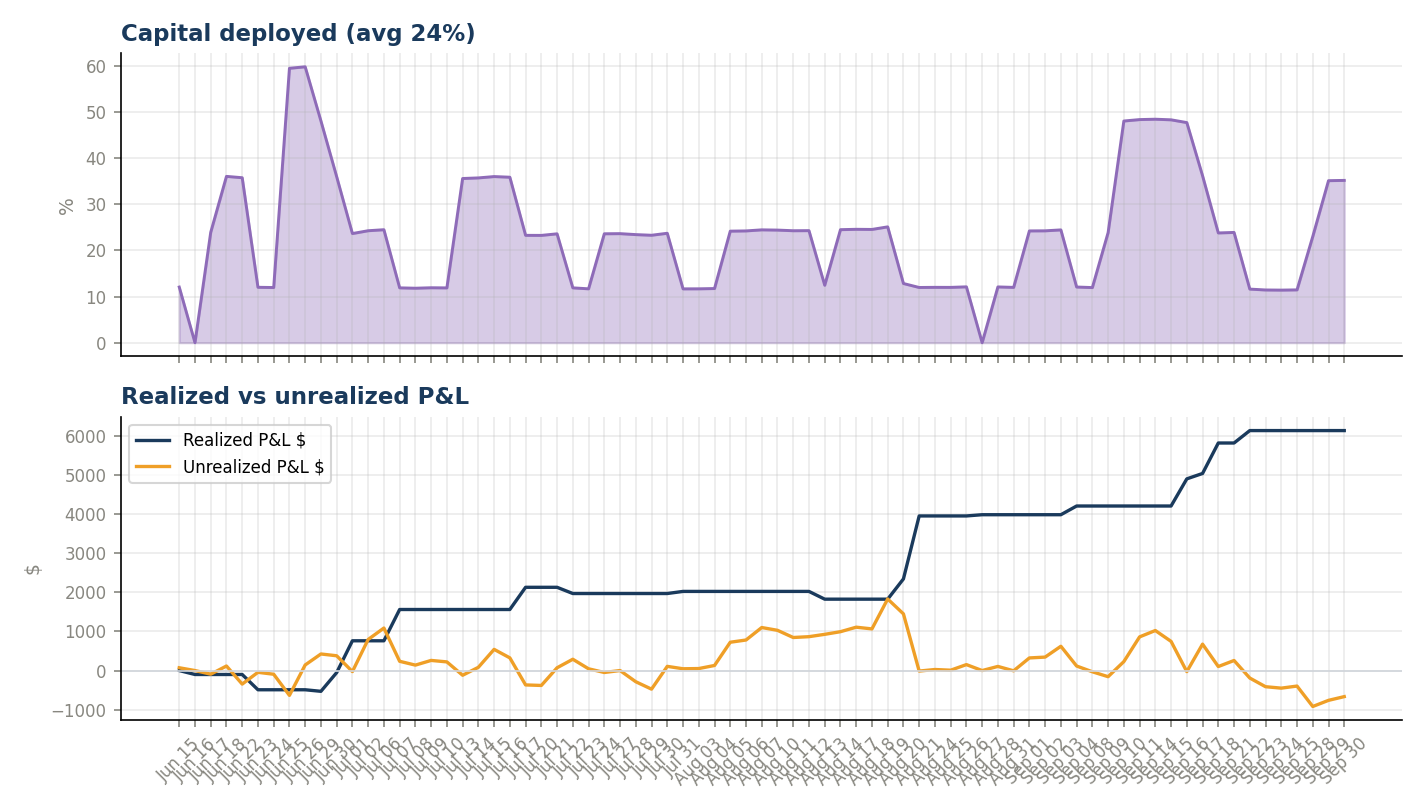
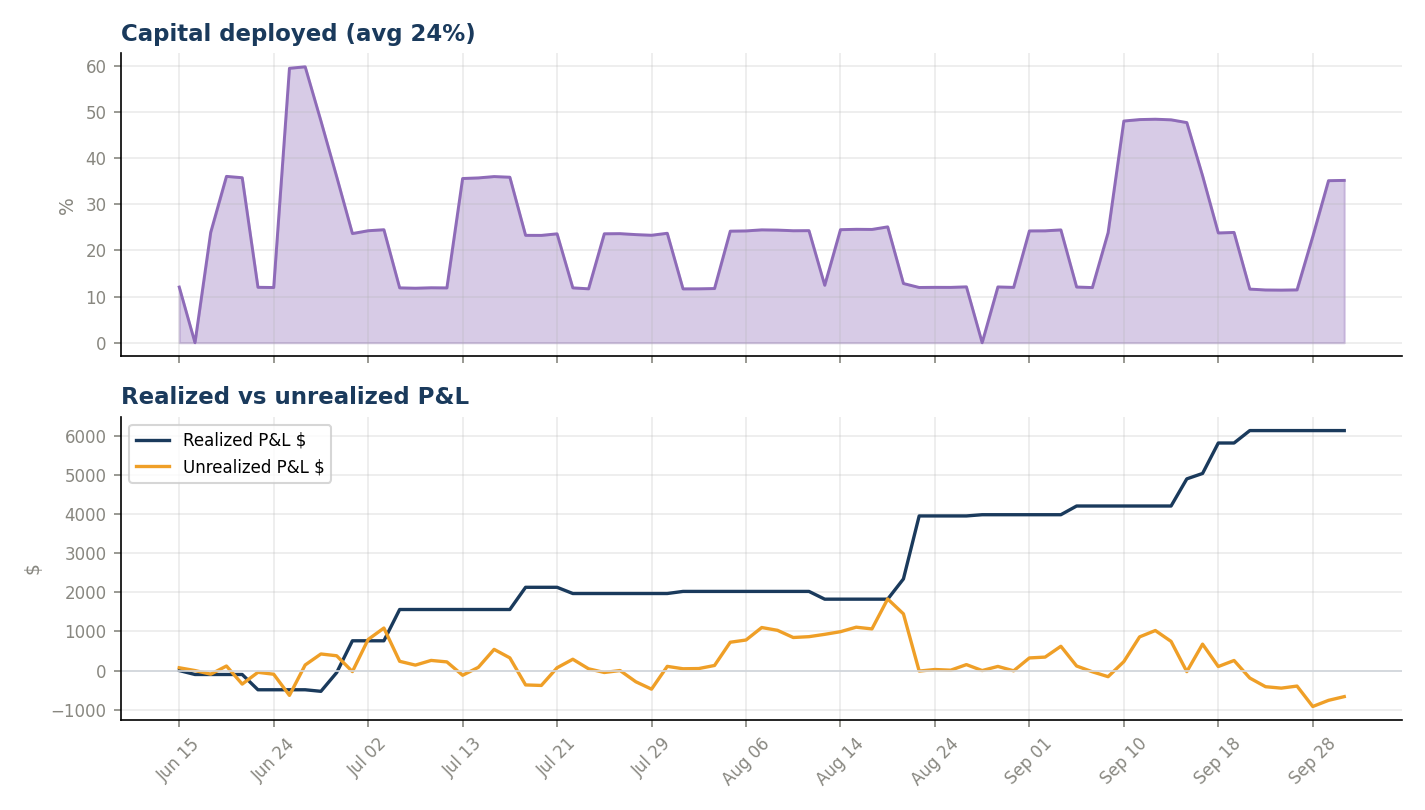
Confirm Sep 30 from Alpaca, thin chart date labels, ignore runtime files
- Sep 30 equity now Alpaca's official figure ($105,460.28, 1 cent from the
  reconstruction); README data note updated, published numbers unchanged
- Date-axis charts in both month-end scripts show ~14 evenly spaced labels
  instead of every date; reports regenerated
- .gitignore: **/desktop.ini (after the month_end re-includes) and the
  engine's position_hold_state.json; both untracked, local files kept

Changed region(s): [[0.1235, 0.8951, 0.9572, 0.9877]]

diff --git a/8_live_trading/aria_momentum_month_end.py b/8_live_trading/aria_momentum_month_end.py
@@ -60,6 +60,7 @@ import pandas as pd
 import matplotlib
 matplotlib.use("Agg")
 import matplotlib.pyplot as plt
+from matplotlib.ticker import MaxNLocator
 
 warnings.filterwarnings("ignore")
 
@@ -527,6 +528,13 @@ def hold_duration_note(trips: pd.DataFrame) -> str:
 # ══════════════════════════════════════════════════════════════════════════════
 # CHARTS
 # ══════════════════════════════════════════════════════════════════════════════
+def _thin_dates(fig, n=14):
+    """Show at most ~n evenly spaced date labels (all dates crowded the axis)."""
+    for ax in fig.axes:
+        ax.xaxis.set_major_locator(MaxNLocator(nbins=n, integer=True))
+        ax.tick_params(axis="x", labelrotation=45)
+
+
 def _style(ax, title, ylabel=None):
     ax.set_title(title, fontsize=11, color=NAVY, weight="bold", loc="left")
     if ylabel:
@@ -554,7 +562,7 @@ def make_charts(hist, qm, reg_attr, parity, trips, opos, mbm, outdir: Path, infl
     ax.axhline(100, color=MGREY, lw=0.8)
     ax.legend(fontsize=8)
     _style(ax, "Equity vs benchmarks (indexed to 100, background = regime)")
-    plt.xticks(rotation=45); plt.tight_layout()
+    _thin_dates(fig); plt.tight_layout()
     fig.savefig(outdir / "equity_vs_benchmarks.png", dpi=150); plt.close(fig)
 
     # 2 — drawdown
@@ -565,7 +573,7 @@ def make_charts(hist, qm, reg_attr, parity, trips, opos, mbm, outdir: Path, infl
                label=f"backtest max DD {BACKTEST['max_dd']}%")
     ax.legend(fontsize=8)
     _style(ax, f"Drawdown (live max {qm['max_dd']:.2f}%)", "%")
-    plt.xticks(rotation=45); plt.tight_layout()
+    _thin_dates(fig); plt.tight_layout()
     fig.savefig(outdir / "drawdown.png", dpi=150); plt.close(fig)
 
     # 3 — regime attribution (signature)
@@ -645,7 +653,7 @@ def make_charts(hist, qm, reg_attr, parity, trips, opos, mbm, outdir: Path, infl
     a2.plot(dates, qm["unrealized"], color=AMBER, lw=1.6, label="Unrealized P&L $")
     a2.axhline(0, color=MGREY, lw=0.8); a2.legend(fontsize=8)
     _style(a2, "Realized vs unrealized P&L", "$")
-    plt.xticks(rotation=45); plt.tight_layout()
+    _thin_dates(fig); plt.tight_layout()
     fig.savefig(outdir / "deployment_pnl_split.png", dpi=150); plt.close(fig)
 
     # 8 — month-by-month return comparison

diff --git a/9_aria_growth/aria_growth_month_end.py b/9_aria_growth/aria_growth_month_end.py
@@ -45,7 +45,7 @@ import pandas as pd
 import matplotlib
 matplotlib.use("Agg")
 import matplotlib.pyplot as plt
-from matplotlib.ticker import FuncFormatter
+from matplotlib.ticker import FuncFormatter, MaxNLocator
 
 warnings.filterwarnings("ignore")
 
@@ -267,6 +267,13 @@ def exit_postmortem(trades: pd.DataFrame, fetch: bool = True):
 # ══════════════════════════════════════════════════════════════════════════════
 # CHARTS
 # ══════════════════════════════════════════════════════════════════════════════
+def _thin_dates(fig, n=14):
+    """Show at most ~n evenly spaced date labels (all dates crowded the axis)."""
+    for ax in fig.axes:
+        ax.xaxis.set_major_locator(MaxNLocator(nbins=n, integer=True))
+        ax.tick_params(axis="x", labelrotation=45)
+
+
 def _style(ax, title, ylabel=None):
     ax.set_title(title, fontsize=11, color=NAVY, weight="bold", loc="left")
     if ylabel: ax.set_ylabel(ylabel, fontsize=9, color=GREY)
@@ -286,7 +293,7 @@ def make_charts(port, qm, pm_pos, pm_exits, mbm, outdir: Path):
     ax.plot(dates, qm["idx_qqq"], color=AMBER, lw=1.4, ls="--", label="QQQ")
     ax.axhline(100, color=MGREY, lw=0.8)
     ax.legend(fontsize=8); _style(ax, "Equity vs benchmarks (indexed to 100)")
-    plt.xticks(rotation=45); plt.tight_layout()
+    _thin_dates(fig); plt.tight_layout()
     fig.savefig(outdir / "equity_vs_benchmarks.png", dpi=150); plt.close(fig)
 
     # 2. Drawdown
@@ -294,7 +301,7 @@ def make_charts(port, qm, pm_pos, pm_exits, mbm, outdir: Path):
     ax.fill_between(dates, qm["dd_series"], 0, color=RED, alpha=0.35)
     ax.plot(dates, qm["dd_series"], color=RED, lw=1.2)
     _style(ax, f"Drawdown (max {qm['max_dd']:.2f}%)", "%")
-    plt.xticks(rotation=45); plt.tight_layout()
+    _thin_dates(fig); plt.tight_layout()
     fig.savefig(outdir / "drawdown.png", dpi=150); plt.close(fig)
 
     # 3. Return distribution + capture

diff --git a/README.md b/README.md
@@ -526,9 +526,9 @@ records (fills, fees and official end-of-day equity) by
 every posted day. This replaces the earlier self-logged history, whose rows
 were a mix of opening snapshots and afternoon snapshots stamped with the next
 day's date. Figures therefore differ from previously published versions,
-including July and August. Two days use the ledger's reconstruction instead
+including July and August. One day uses the ledger's reconstruction instead
 of Alpaca's daily figure: 2026-07-29, where Alpaca's record repeats the prior
-day, and 2026-09-30, not yet posted by Alpaca at report time. Benchmarks are
+day. The 2026-09-30 close is Alpaca's official figure ($105,460.28). Benchmarks are
 measured from the 2026-06-15 open, when capital went live._
 
 | Metric                  | Book       | SPY     | QQQ     |

diff --git a/8_live_trading/month_end/2026-07/report_2026-07.md b/8_live_trading/month_end/2026-07/report_2026-07.md
@@ -1,6 +1,6 @@
 # ARIA-Momentum — Month-End Review 2026-07
 
-_Generated 2026-10-01 11:57 · inception 2026-06-15 → 2026-07-31 · 33 trading days · read-only analysis._
+_Generated 2026-10-01 19:49 · inception 2026-06-15 → 2026-07-31 · 33 trading days · read-only analysis._
 
 > **Sample-size caveat:** a few weeks of live data verifies the machinery and shows behavior; it cannot prove or disprove the edge validated over 5.5 backtest years. Every number below is indicative, not conclusive — especially while the book has traded in only 1 regime(s).
 

diff --git a/8_live_trading/month_end/2026-08/report_2026-08.md b/8_live_trading/month_end/2026-08/report_2026-08.md
@@ -1,6 +1,6 @@
 # ARIA-Momentum — Month-End Review 2026-08
 
-_Generated 2026-10-01 11:57 · inception 2026-06-15 → 2026-08-31 · 54 trading days · read-only analysis._
+_Generated 2026-10-01 19:49 · inception 2026-06-15 → 2026-08-31 · 54 trading days · read-only analysis._
 
 > **Sample-size caveat:** a few weeks of live data verifies the machinery and shows behavior; it cannot prove or disprove the edge validated over 5.5 backtest years. Every number below is indicative, not conclusive — especially while the book has traded in only 1 regime(s).
 

diff --git a/8_live_trading/month_end/2026-09/report_2026-09.md b/8_live_trading/month_end/2026-09/report_2026-09.md
@@ -1,6 +1,6 @@
 # ARIA-Momentum — Month-End Review 2026-09
 
-_Generated 2026-10-01 11:57 · inception 2026-06-15 → 2026-09-30 · 75 trading days · read-only analysis._
+_Generated 2026-10-01 19:48 · inception 2026-06-15 → 2026-09-30 · 75 trading days · read-only analysis._
 
 > **Sample-size caveat:** a few weeks of live data verifies the machinery and shows behavior; it cannot prove or disprove the edge validated over 5.5 backtest years. Every number below is indicative, not conclusive — especially while the book has traded in only 1 regime(s).
 

diff --git a/9_aria_growth/month_end/2026-09/report_2026-09.md b/9_aria_growth/month_end/2026-09/report_2026-09.md
@@ -1,6 +1,6 @@
 # ARIA-Growth — Month-End Review 2026-09
 
-_Generated 2026-10-01 18:49. Read-only analysis; 79 trading days of data._
+_Generated 2026-10-01 19:48. Read-only analysis; 79 trading days of data._
 
 > **Sample-size caveat:** one month verifies the machinery and shows behavior; it cannot prove or disprove edge. Treat every number below as indicative, not conclusive.
 
